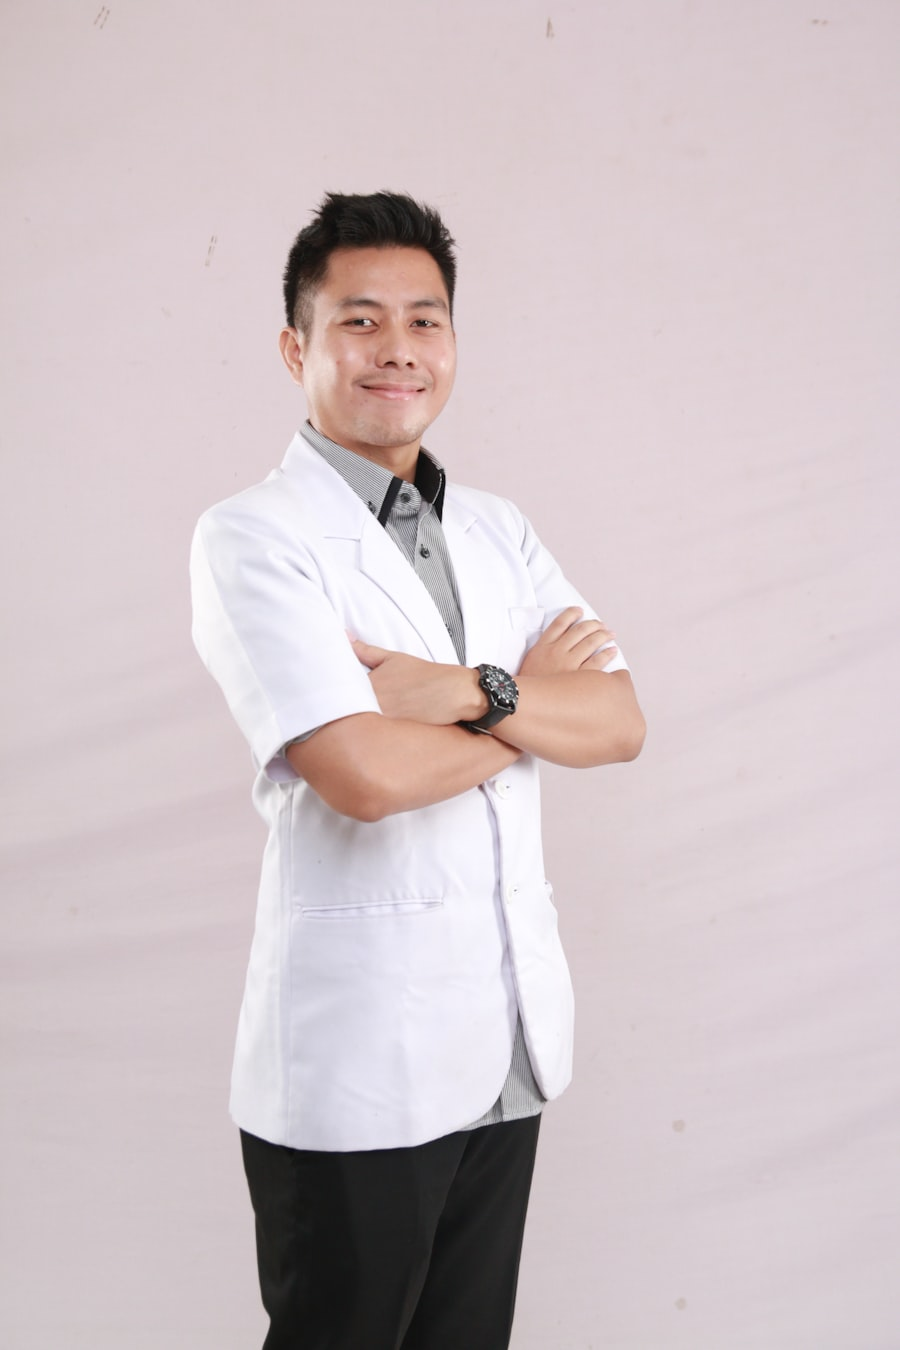
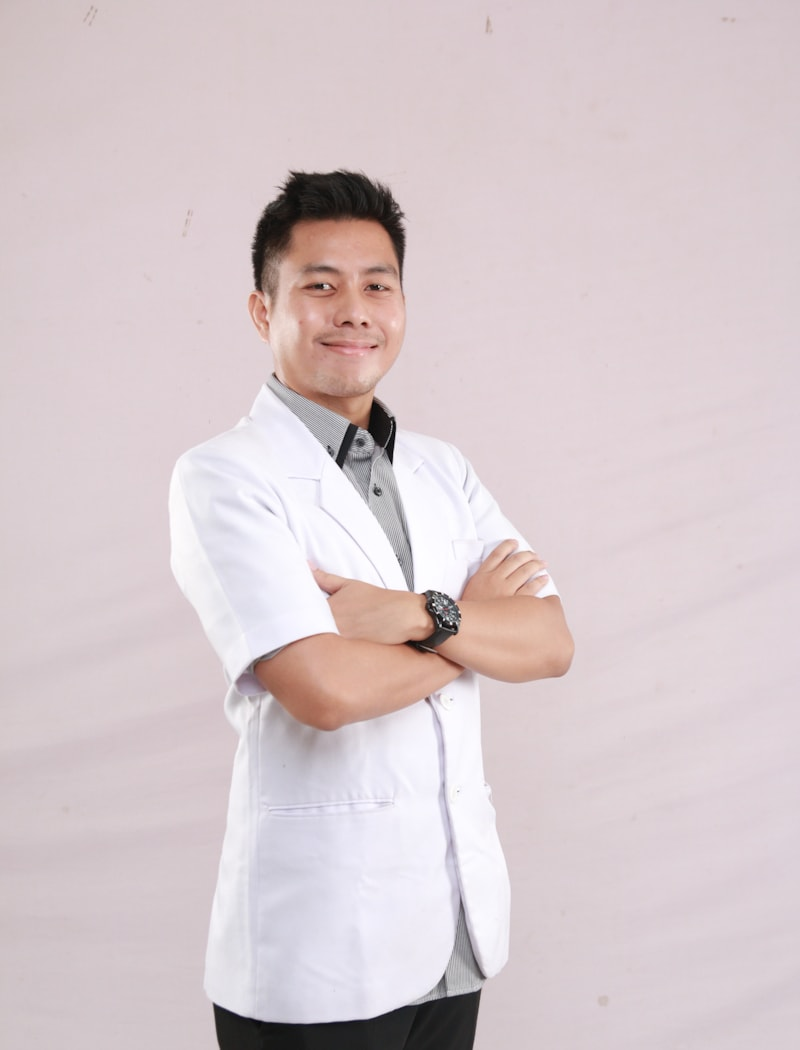
Replace duplicated and overused team portraits
The aesthetic-medicine and orthodontics cards were the same model from one
photoshoot, and the family-medicine card used a heavily circulated stock
portrait.

- Four distinct clinicians now, each a different person: new portraits for
  Tomás Ferreira, Camila Duarte and Rafael Nunes.
- Slightly desaturate team photography so the studio backdrops sit inside
  the warm palette instead of fighting it.
- Drop the portrait files that are no longer referenced anywhere.

Changed region(s): [[0.1875, 0.1219, 0.7188, 1.0]]

diff --git a/src/lib/images.ts b/src/lib/images.ts
@@ -145,18 +145,6 @@ export const IMG = {
     "h": 801,
[1 lines of base64/hex data omitted]
   },
-  "person-1": {
-    "src": "/images/person-1.jpg",
-    "w": 500,
-    "h": 500,
[1 lines of base64/hex data omitted]
-  },
-  "person-2": {
-    "src": "/images/person-2.jpg",
-    "w": 500,
-    "h": 500,
[1 lines of base64/hex data omitted]
-  },
   "person-3": {
     "src": "/images/person-3.jpg",
     "w": 500,
@@ -193,29 +181,23 @@ export const IMG = {
     "h": 1350,
[1 lines of base64/hex data omitted]
   },
-  "team-doctor-2": {
-    "src": "/images/team-doctor-2.jpg",
-    "w": 900,
-    "h": 600,
[1 lines of base64/hex data omitted]
-  },
   "team-doctor-3": {
     "src": "/images/team-doctor-3.jpg",
-    "w": 900,
-    "h": 1350,
[1 lines of base64/hex data omitted]
+    "w": 800,
+    "h": 1050,
[1 lines of base64/hex data omitted]
   },
-  "team-doctor-4": {
-    "src": "/images/team-doctor-4.jpg",
-    "w": 900,
-    "h": 600,
[1 lines of base64/hex data omitted]
+  "team-doctor-5": {
+    "src": "/images/team-doctor-5.jpg",
+    "w": 800,
+    "h": 1050,
[1 lines of base64/hex data omitted]
   },
-  "team-doctor-m": {
-    "src": "/images/team-doctor-m.jpg",
-    "w": 900,
-    "h": 600,
[1 lines of base64/hex data omitted]
+  "team-doctor-6": {
+    "src": "/images/team-doctor-6.jpg",
+    "w": 800,
+    "h": 1050,
[1 lines of base64/hex data omitted]
   },
   "team-nurse": {
     "src": "/images/team-nurse.jpg",

diff --git a/src/components/sections/Team.tsx b/src/components/sections/Team.tsx
@@ -10,9 +10,9 @@ import type { ImageKey } from "@/lib/images";
 
 const MEMBER_META: { image: ImageKey; icon: GlyphName; tone: Tone; shape: "arch" | "arch-soft" }[] = [
   { image: "team-clinician-f", icon: "implant", tone: "sky", shape: "arch" },
-  { image: "team-doctor-m", icon: "sparkle", tone: "rose", shape: "arch-soft" },
-  { image: "person-1", icon: "stethoscope", tone: "mint", shape: "arch" },
-  { image: "team-doctor-4", icon: "aligner", tone: "lilac", shape: "arch-soft" },
+  { image: "team-doctor-5", icon: "sparkle", tone: "rose", shape: "arch-soft" },
+  { image: "team-doctor-6", icon: "stethoscope", tone: "mint", shape: "arch" },
+  { image: "team-doctor-3", icon: "aligner", tone: "lilac", shape: "arch-soft" },
 ];
 
 export function Team({ locale, dict }: { locale: Locale; dict: Dictionary }) {
@@ -58,7 +58,7 @@ export function Team({ locale, dict }: { locale: Locale; dict: Dictionary }) {
                       shape={m.shape}
                       className="aspect-[3/4] w-full border-[5px] border-white transition-transform duration-700 ease-[cubic-bezier(.16,1,.3,1)] group-hover:-translate-y-2"
                       sizes="(max-width:640px) 100vw, 320px"
-                      imgClassName="transition-transform duration-[1200ms] ease-[cubic-bezier(.16,1,.3,1)] group-hover:scale-[1.06]"
+                      imgClassName="saturate-[.88] transition-transform duration-[1200ms] ease-[cubic-bezier(.16,1,.3,1)] group-hover:scale-[1.06]"
                     />
                     <span className="absolute -right-3 bottom-6 transition-transform duration-500 group-hover:-translate-y-2">
                       <IconOrb icon={m.icon} tone={m.tone} size="lg" halo />
